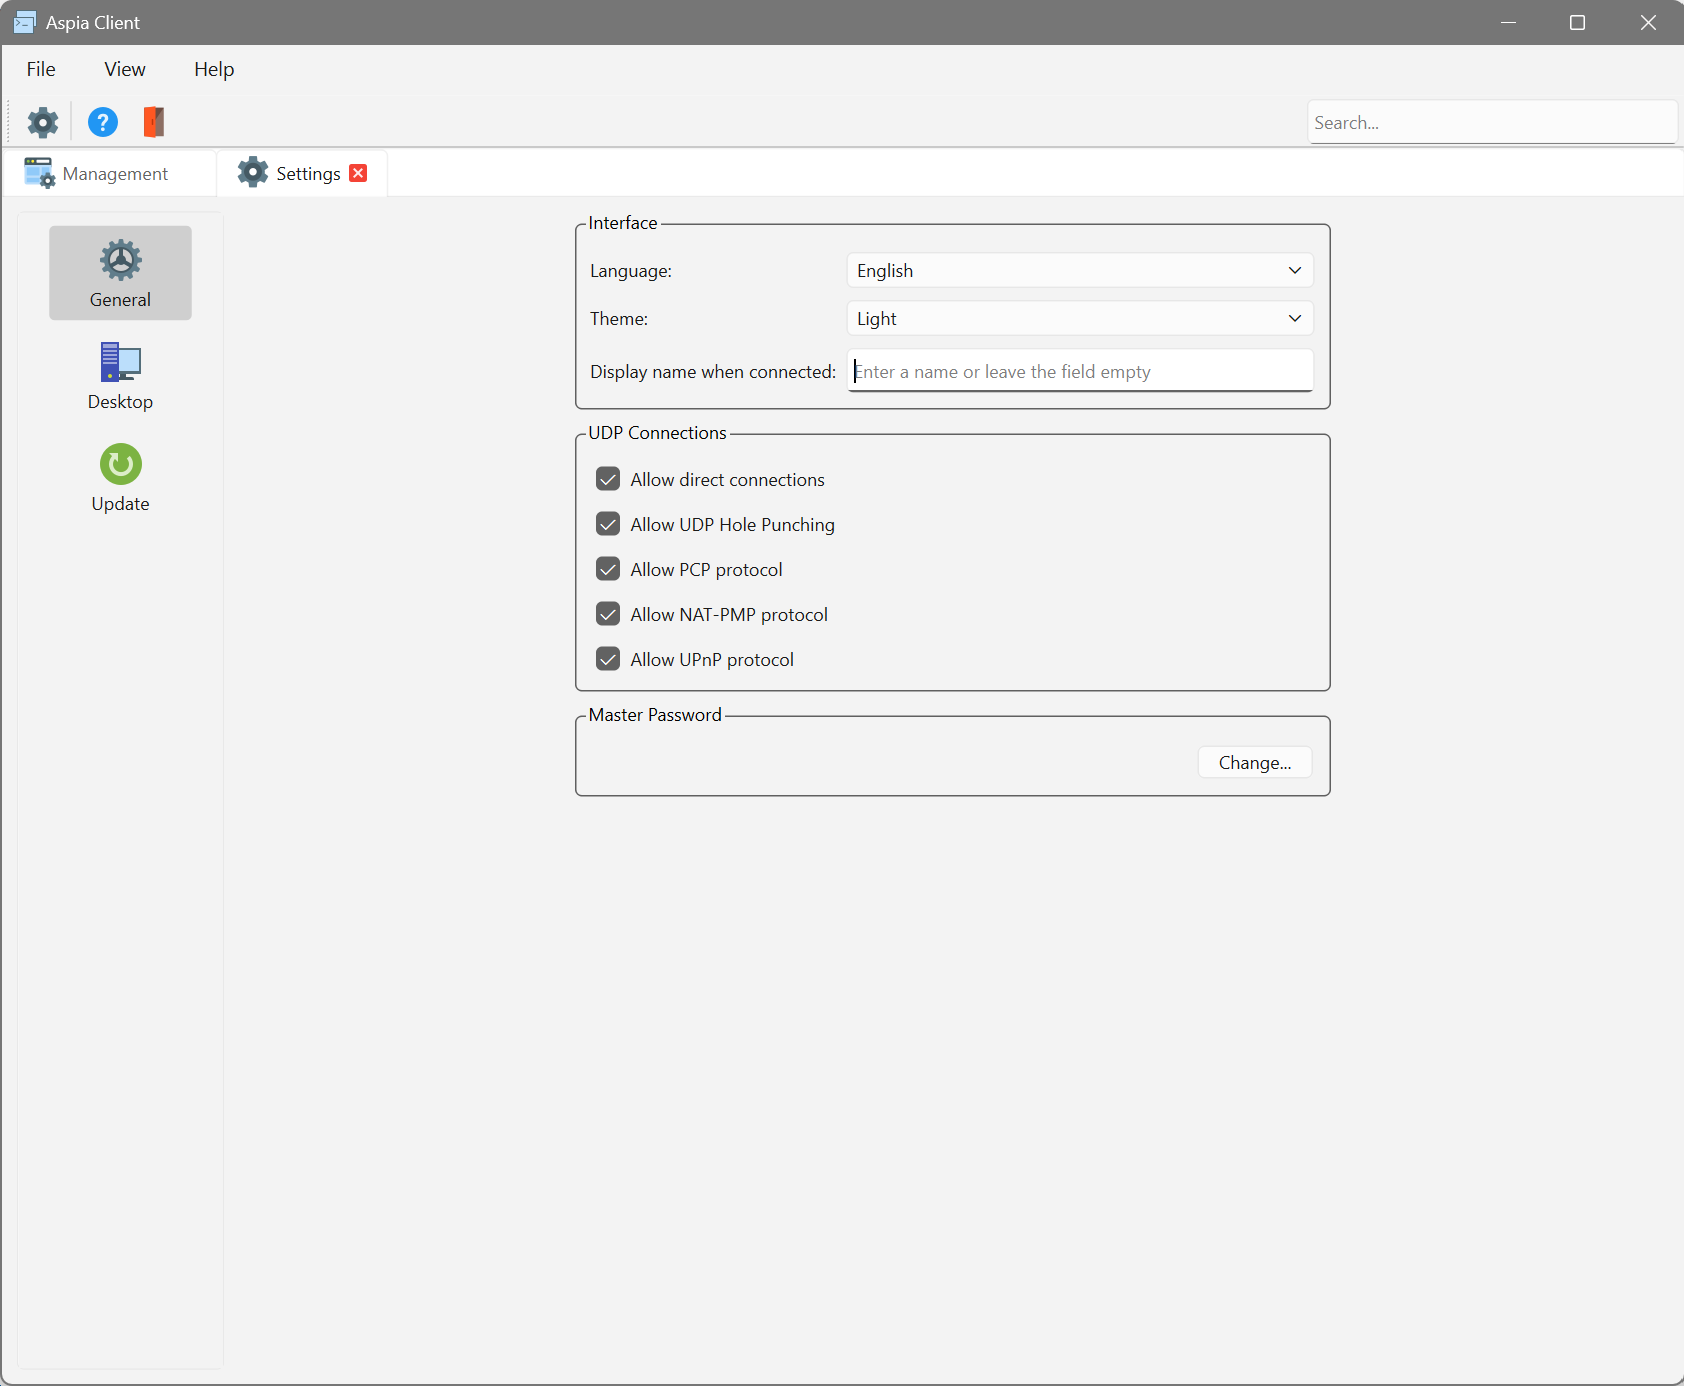
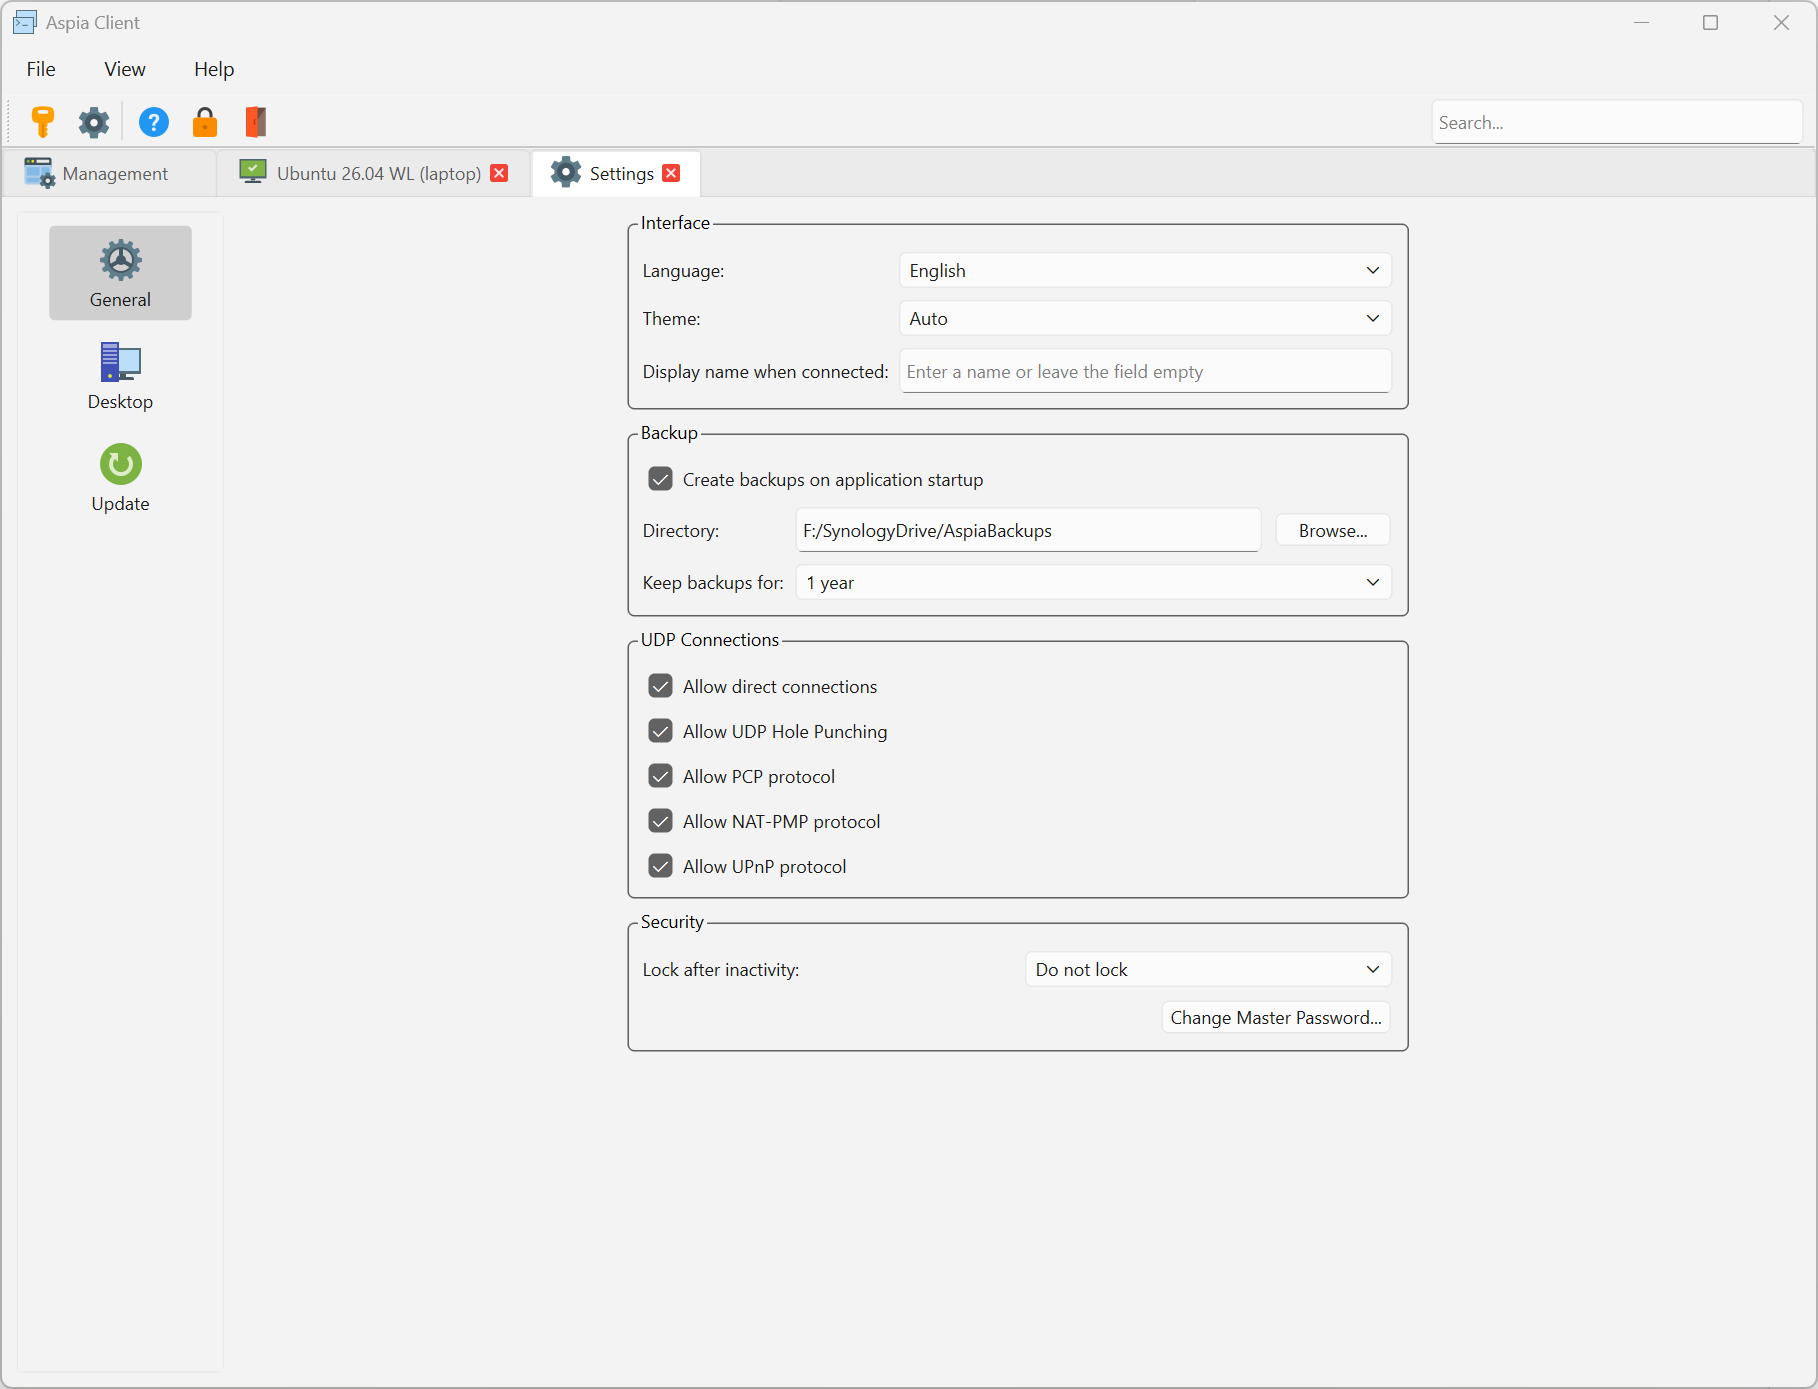
Update docs.

diff --git a/docs/client.md b/docs/client.md
@@ -732,13 +732,14 @@ is opened in it.
 <br/>
 
 ## 11. Environment variables <a name="env-vars"></a>
-  - **ASPIA_NO_VERIFY_TLS_PEER** - If the variable is declared, then the validity of the TLS certificate is not checked when checking for updates. It is not recommended to declare this variable unnecessarily.
-  - **ASPIA_SMALL_ICON_SIZE** - Sets the size of the small icons of the interface in pixels.
+  - **ASPIA_NO_VERIFY_TLS_PEER** - If the variable is declared, then the validity of the TLS certificate is not checked when checking for updates and downloading them. It is not recommended to declare this variable unnecessarily.
+  - **ASPIA_SMALL_ICON_SIZE** - Sets the size of the small icons of the interface in pixels, from 16 to 48, default 24.
 
 <br/>
 
 ## 12. Logs <a name="logs"></a>
-By default the Client writes the log to a file on Windows and to stdout on Linux and macOS. To configure the logging parameters, use the following recommendations:
+By default the Client writes the log to files. To configure the logging parameters, use the
+following recommendations:
   - To set the log level, declare an environment variable ASPIA_LOG_LEVEL with a value from 0 to 4 (0 - trace, 1 - info, 2 - warning, 3 - error, 4 - fatal). Decreasing the value increases the number of messages in the log.
   - To enable logging to a file (if it is not enabled by default for platform), declare environment variable ASPIA_LOG_TO_FILE with a value other than 0. If the environment variable is declared with a value of 0, then logging to file will be disabled.
   - To enable logging to stdout (if it is not enabled by default for platform), declare environment variable ASPIA_LOG_TO_STDOUT with a value other than 0. If the environment variable is declared with a value of 0, then logging to stdout will be disabled.
@@ -750,6 +751,13 @@ The log files are located in the following paths:
 Windows
   %TEMP%\aspia\aspia_client-*.log
 
-Linux and macOS
+Linux
+  ~/.local/state/aspia/logs/aspia_client-*.log
+  ($XDG_STATE_HOME/aspia/logs if the variable is set)
+
+macOS
   $TMPDIR/aspia/aspia_client-*.log
+
+Android
+  /sdcard/Android/data/org.aspia.client/files/log/
 ```
